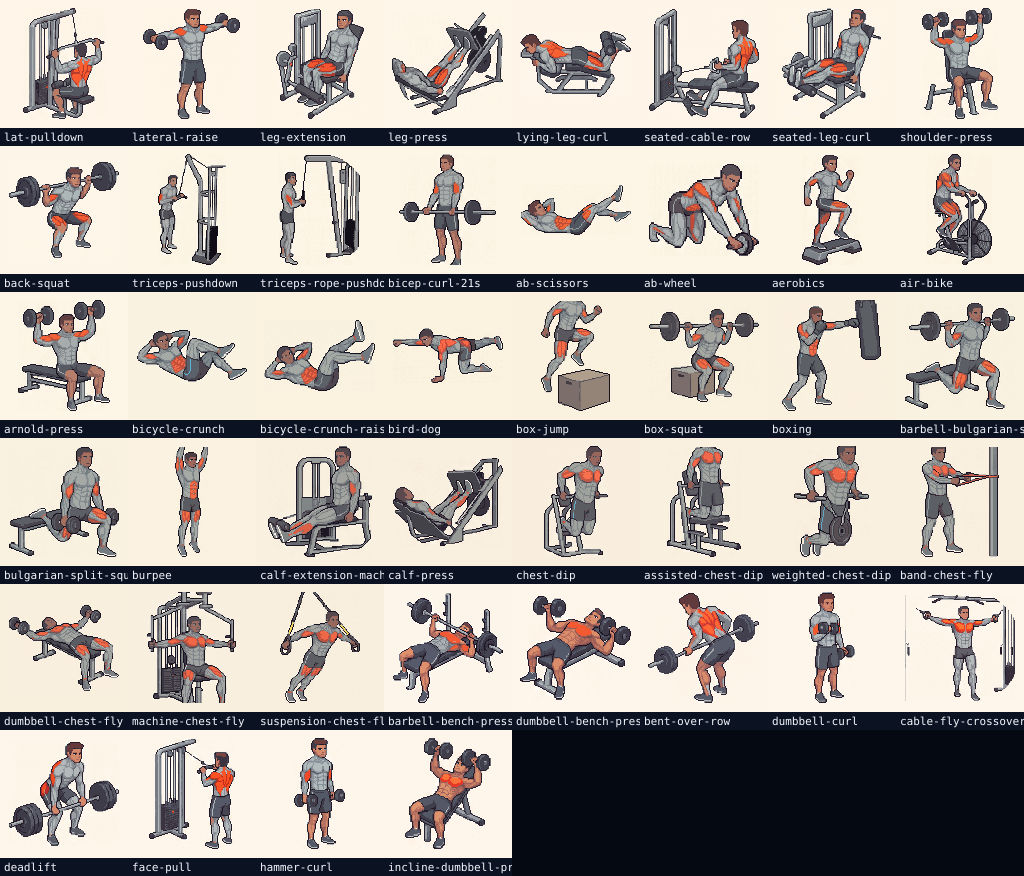
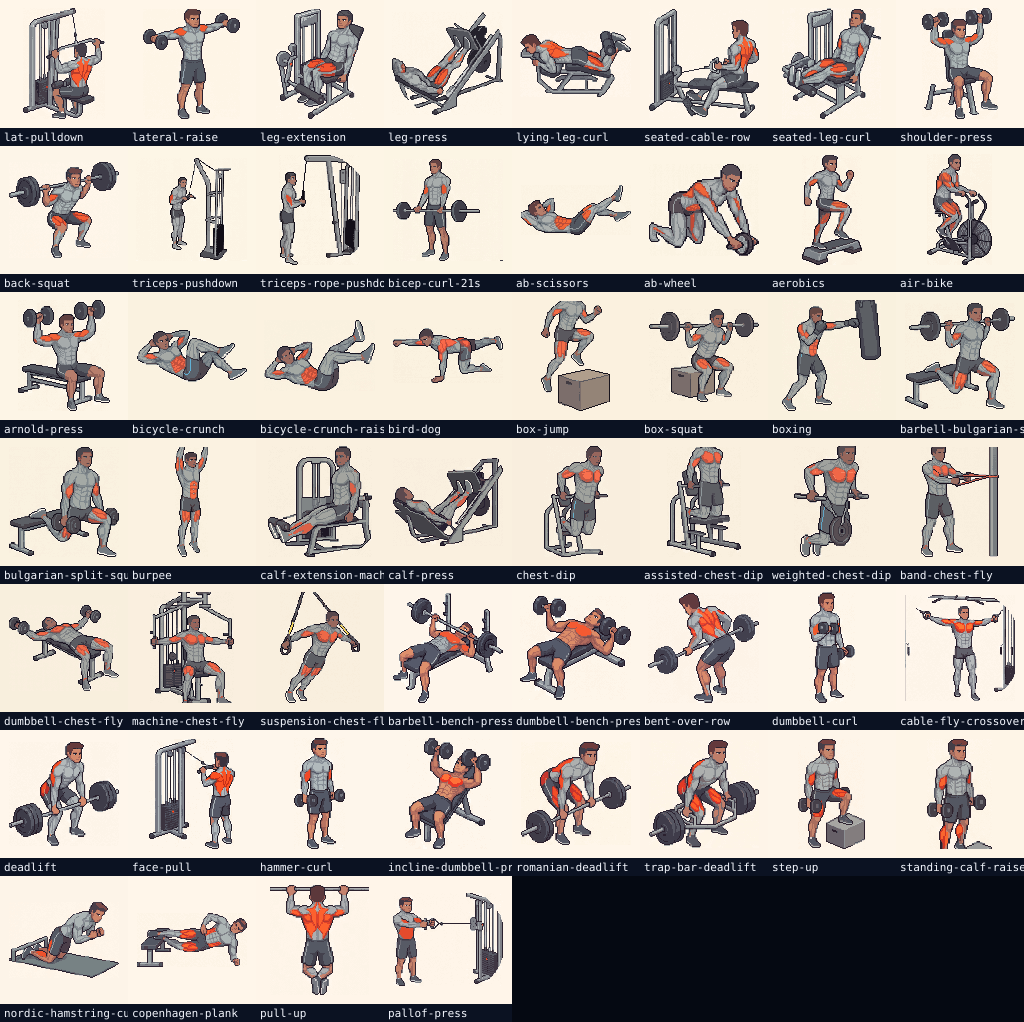
Gym phase 1: batch 8 — art for the eight plan exercises (52/52)
Claude-Session: https://claude.ai/code/session_01MKPtPqT9cLfraEnRb8y9iB

diff --git a/tests/gym-model.test.js b/tests/gym-model.test.js
@@ -78,8 +78,11 @@ test('every sheet name matches its own entry; the art list, the files and the sh
     'Chest Dip (Assisted)': 'assisted-chest-dip', 'Chest Dip (Weighted)': 'weighted-chest-dip',
     'Chest Fly (Band)': 'band-chest-fly', 'Chest Fly (Dumbbell)': 'dumbbell-chest-fly',
     'Chest Fly (Machine)': 'machine-chest-fly', 'Chest Fly (Suspension)': 'suspension-chest-fly',
+    'Romanian Deadlift': 'romanian-deadlift', 'Trap-Bar Deadlift': 'trap-bar-deadlift', 'Step-Up': 'step-up',
+    'Standing Calf Raise': 'standing-calf-raise', 'Nordic Curl': 'nordic-hamstring-curl',
+    'Copenhagen Plank': 'copenhagen-plank', 'Pull-Up': 'pull-up', 'Pallof Press': 'pallof-press',
   };
-  assert.equal(Object.keys(sheetNames).length, 44);
+  assert.equal(Object.keys(sheetNames).length, 52);
   for (const [name, id] of Object.entries(sheetNames)) assert.equal(matchExercise(name), id, name);
   for (const id of ART_IDS) assert.ok(exerciseById(id), `art for unknown id ${id}`);
   const files = readdirSync(new URL('../icons/Pixelart/EXERCISES/', import.meta.url)).map((f) => f.replace(/\.png$/, ''));
@@ -88,7 +91,8 @@ test('every sheet name matches its own entry; the art list, the files and the sh
     .flatMap((sh) => sh.ids).filter((id) => id !== '-');
   assert.deepEqual([...mapped].sort(), [...ART_IDS].sort());
   assert.equal(exerciseArtSrc('deadlift'), 'icons/Pixelart/EXERCISES/deadlift.png');
-  assert.equal(exerciseArtSrc('pallof-press'), null);
+  assert.equal(exerciseArtSrc('nope'), null);
+  assert.equal(EXERCISES.length, ART_IDS.size, 'every library entry has art');
 });
 
 test('common names land on the right variant', () => {

diff --git a/js/core/exercises.js b/js/core/exercises.js
@@ -10,8 +10,8 @@
 // by tools/slice-exercise-art.mjs). Until an entry has art, the app falls back
 // to the line drawing from poses.js.
 //
-// Covers every exercise the built-in plan uses plus the 44 on the exercise
-// sheets (docs/gym/sheets, mapping in docs/gym/sheets.json).
+// Covers the 52 exercises on the sheets (docs/gym/sheets, mapping in
+// docs/gym/sheets.json), which include every exercise the built-in plan uses.
 
 export const MUSCLES = ['Chest', 'Back', 'Shoulders', 'Biceps', 'Triceps', 'Forearms', 'Traps',
   'Quads', 'Hamstrings', 'Glutes', 'Calves', 'Adductors', 'Abs', 'Full body', 'Cardio'];
@@ -247,6 +247,8 @@ export const ART_IDS = new Set([
   'box-jump', 'calf-press', 'calf-extension-machine',
   'bird-dog', 'ab-wheel', 'ab-scissors', 'bicycle-crunch', 'bicycle-crunch-raised-legs',
   'burpee', 'air-bike', 'aerobics', 'boxing',
+  'romanian-deadlift', 'trap-bar-deadlift', 'step-up', 'standing-calf-raise', 'nordic-hamstring-curl',
+  'copenhagen-plank', 'pull-up', 'pallof-press',
 ]);
 
 /** The exercise's pixel art, or null when it has none (the app then draws a pose). */

diff --git a/docs/gym/BRIEF.md b/docs/gym/BRIEF.md
@@ -11,14 +11,14 @@ are now in the repo:
 
 | What | Owner's path | Put them in the repo at |
 | --- | --- | --- |
-| 7 exercise sheets (61 cards, 44 different exercises) | `D:\00_CLAUDE\MOSKE APP NEW FILES\PIXEL GYM` | `docs/gym/sheets/batch-1…7.jpg` ✅ |
+| 8 exercise sheets (69 cards, 52 different exercises) | `D:\00_CLAUDE\MOSKE APP NEW FILES\PIXEL GYM` | `docs/gym/sheets/batch-1…8.jpg` ✅ |
 | 4 Hevy screenshots (behaviour reference only — never copy the look) | `D:\00_CLAUDE\MOSKE APP NEW FILES\FEATURES REFERENCE` | `docs/gym/reference/IMG_9187…9190.PNG` ✅ |
 
 House style of the sheets: 3×3 grid of cards on cream, a figure with the
 working muscles highlighted orange, exercise name and muscle group printed
 underneath.
 
-Batches 1 and 4 are 2×4 grids; the rest are 3×3. Batch 7 repeats batch 1
+Batches 1, 4 and 8 are 2×4 grids; the rest are 3×3. Batch 8 holds the eight plan exercises the first seven lacked. Batch 7 repeats batch 1
 (plus Incline Bench Press) and batch 3 repeats batch 2 (plus Squat). Where an
 exercise appears twice the grey-suit version is used (batches 3 and 7), to
 match the other sheets; `docs/gym/sheets.json` maps every cell to a library id
@@ -56,18 +56,16 @@ No SQL migration (`exercises` is jsonb).
 1.2 **Library** `js/core/exercises.js`: `{ id, name, equipment, muscle, secondary, defaultKind, defaultRestSec, cues, aliases }`.
 `matchExercise(freeText)` → id or null. Tested against every seed-plan name.
 Cues from `poses.js` folded in; `poseSvgFor()` stays as the fallback picture.
-**Status:** 52 entries: the 44 on the sheets plus the 8 plan exercises that
-have no card (Romanian deadlift, trap-bar deadlift, step-up, standing calf
-raise, Nordic curl, Copenhagen plank, pull-up, Pallof press — these keep the
-drawn pose until they get art). Muscle names follow the app's list: the sheets'
-"Lats"/"Upper Back" → Back, "Quadriceps" → Quads, "Abdominals" → Abs.
+**Status:** 52 entries, all with art. Muscle names follow the app's list: the
+sheets' "Lats"/"Upper Back" → Back, "Quadriceps" → Quads, "Abdominals" → Abs,
+"Obliques" → Abs.
 
 1.3 **Slicer** `tools/slice-exercise-art.mjs` (sharp): cell crop → figure bbox on
 cream (label band dropped) → pad to square → palette quantise → 256×256
 nearest-neighbour → `icons/Pixelart/EXERCISES/<id>.png`, contact sheet
-`docs/gym/art-check.png`. Documented in README. Run on all seven sheets: 44
-images, ~13 KB each. Machine Chest Fly loses a few pixels at the feet, where
-the printed name touches them.
+`docs/gym/art-check.png`. Documented in README. Run on all eight sheets: 52
+images, ~13 KB each. Machine Chest Fly and Standing Calf Raise lose a few
+pixels at the feet, where the printed name touches them.
 
 1.4 Art is **not** precached (not in `ASSETS`), lazy-loaded; every `<img>` has
 width, height, `loading="lazy"`. `exerciseArtSrc(libId)` only returns a path
